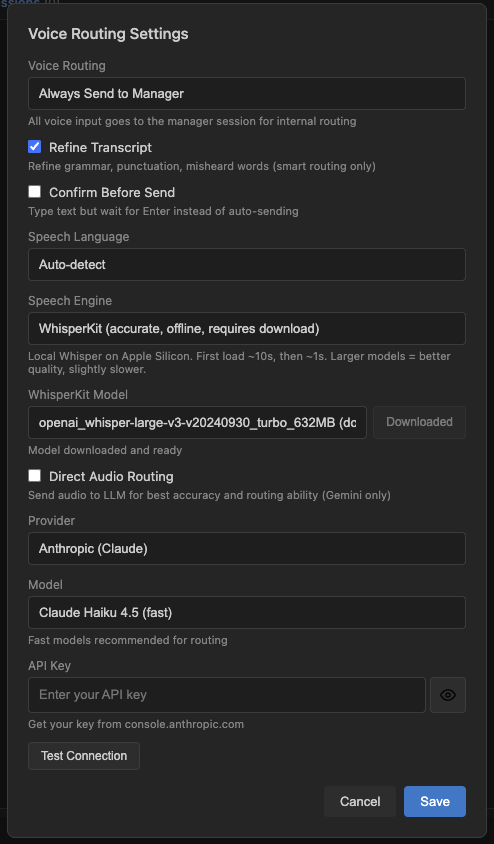
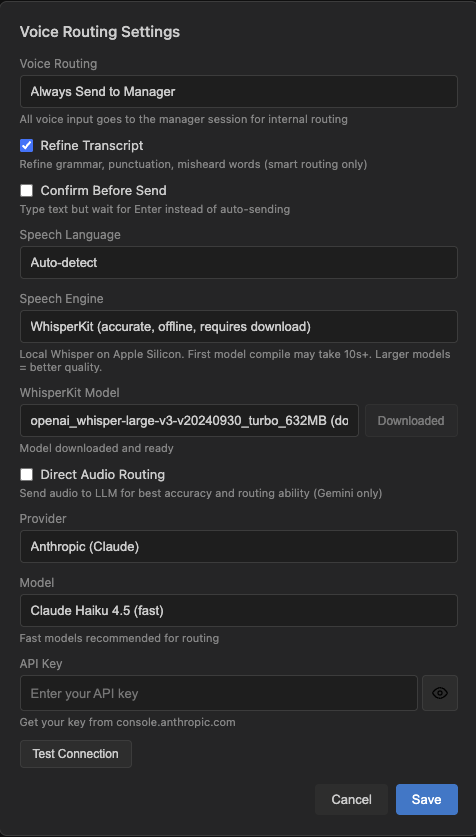
fix: model compile/loading time clarification

diff --git a/src/renderer/index.ts b/src/renderer/index.ts
@@ -1981,7 +1981,7 @@ async function showVoiceSettingsModal(): Promise<void> {
     const engine = speechEngineSelect.value;
     if (speechEngineHint) {
       speechEngineHint.textContent = engine === 'whisperkit'
-        ? 'Local Whisper on Apple Silicon. First load ~10s, then ~1s. Larger models = better quality, slightly slower.'
+        ? 'Local Whisper on Apple Silicon. First model compile may take 10s+. Larger models = better quality.'
         : 'Apple Speech: real-time streaming, instant startup';
     }
     // Show/hide whisperkit model section
